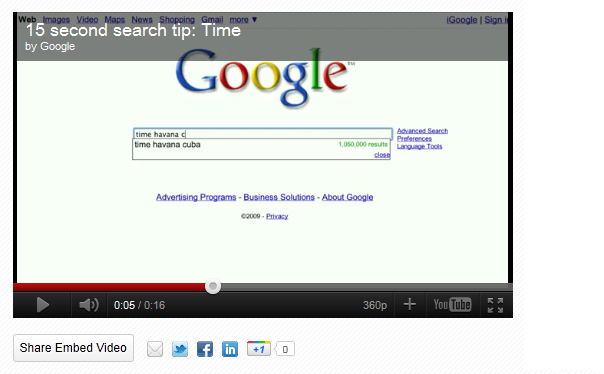
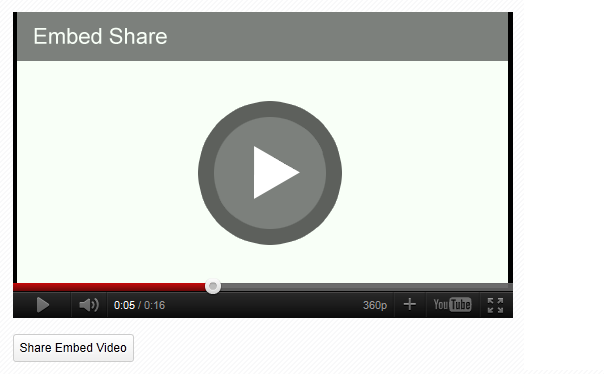
readme
git-svn-id: https://plugins.svn.wordpress.org/embed-share/trunk@589678 b8457f37-d9ea-0310-8a92-e5e31aec5664

Changed region(s): [[0.0298, 0.0294, 0.745, 0.6765], [0.2384, 0.9118, 0.4768, 0.9706], [0.745, 0.0294, 0.8344, 0.0882]]

diff --git a/css/frontend-embed-share.css b/css/frontend-embed-share.css
@@ -1,5 +1,7 @@
 .video_embed_share {
-	margin:  -10px 0 15px 0;
+	position: relative;
+	top: -10px;
+	width: 500px;
 }
 .video_embed_textarea textarea {
 	min-height: 100px;
@@ -20,7 +22,7 @@
     cursor: pointer;
     height: 16px;
     line-height: 16px;
-	margin: 5px 0;
+	margin: 0 0 5px;
     overflow: visible;
     padding: 5px 6px;
     vertical-align: middle;
@@ -33,4 +35,13 @@
 .video_embed_note {
 	font-size: 11px;
 	color: #333;
+}
+.addthis_default_style {
+	float: right;
+	width: 400px;
+	margin-top: 6px;
+	overflow: hidden;
+}
+.addthis_default_style a {
+	margin-right: 5px;
 }

diff --git a/plugin.php b/plugin.php
@@ -1,32 +1,26 @@
 <?php
 /*
-Plugin Name: Embed Share
-Plugin URI: http://www.codepress.nl/plugins/embed-share/
-Description: Adds an easily shareable embed code to your videos. 
-Author: Tobias Schutter
-Version: 1.10
-Author URI: http://www.codepress.nl
+Plugin Name: 		Embed Share
+Version: 			1.10
+Description: 		Adds an easily shareable embed code to your videos. 
+Author: 			Tobias Schutter
+Plugin URI: 		http://wordpress.org/extend/plugins/embed-share/
+License:			GPLv2
 
-Updates:
-1.10 - Added Social sharing to video's from addThis
-1.01 - Custom Link markup changed
-1.00 - First Version
+Copyright 2011-2012  Codepress  info@codepress.nl
 
-	Copyright 2011 Tobias Schutter
+This program is free software; you can redistribute it and/or modify
+it under the terms of the GNU General Public License version 2 as published by
+the Free Software Foundation.
 
-    This program is free software; you can redistribute it and/or modify
-    it under the terms of the GNU General Public License as published by
-    the Free Software Foundation; either version 2 of the License, or
-    (at your option) any later version.
+This program is distributed in the hope that it will be useful,
+but WITHOUT ANY WARRANTY; without even the implied warranty of
+MERCHANTABILITY or FITNESS FOR A PARTICULAR PURPOSE.  See the
+GNU General Public License for more details.
 
-    This program is distributed in the hope that it will be useful,
-    but WITHOUT ANY WARRANTY; without even the implied warranty of
-    MERCHANTABILITY or FITNESS FOR A PARTICULAR PURPOSE.  See the
-    GNU General Public License for more details.
-
-    You should have received a copy of the GNU General Public License
-    along with this program; if not, write to the Free Software
-    Foundation, Inc., 51 Franklin St, Fifth Floor, Boston, MA  02110-1301  USA
+You should have received a copy of the GNU General Public License
+along with this program; if not, write to the Free Software
+Foundation, Inc., 51 Franklin St, Fifth Floor, Boston, MA  02110-1301  USA
 
 */
 
@@ -45,11 +39,14 @@ $options = get_option('cpes_options');
 require CPES_PATH.'options.php';
 
 // Enqueue scripts
-wp_enqueue_script('frontend-embed-share-js', CPES_URL . 'js/frontend-embed-share.js', array('jquery'), CPES_VERSION, false);
-wp_enqueue_style('frontend-embed-share-css', CPES_URL . 'css/frontend-embed-share.css', false, CPES_VERSION, 'all');
-
-if ( $options['use_social'] || $options['more_social'] )
-	wp_enqueue_script('addthis-js', 'http://s7.addthis.com/js/250/addthis_widget.js');
+if ( !is_admin() ) {
+	wp_enqueue_script('frontend-embed-share-js', CPES_URL . 'js/frontend-embed-share.js', array('jquery'), CPES_VERSION, false);
+	wp_enqueue_style('frontend-embed-share-css', CPES_URL . 'css/frontend-embed-share.css', false, CPES_VERSION, 'all');
+	
+	if ( $options['use_social'] || $options['more_social'] ) {
+		wp_enqueue_script('addthis-js', 'http://s7.addthis.com/js/250/addthis_widget.js');
+	}	
+}
 
 // Enqueue admin scripts
 function cpes_admin_scripts() {    
